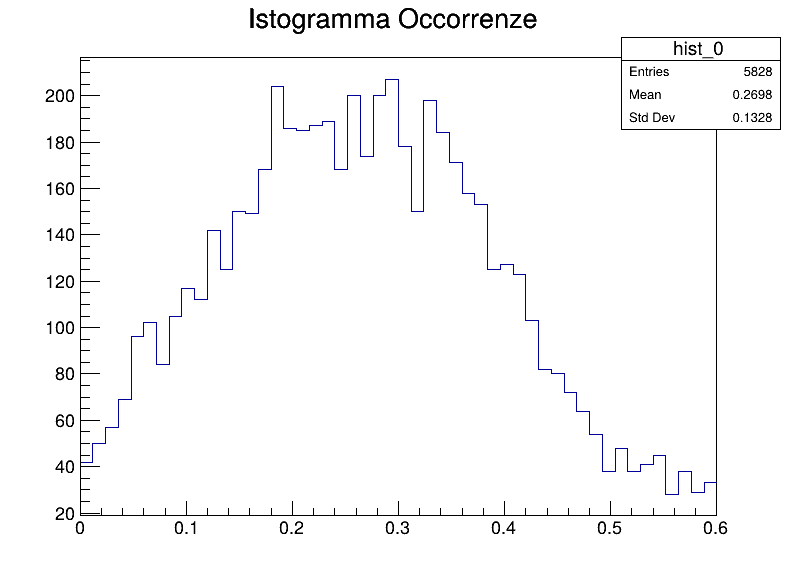
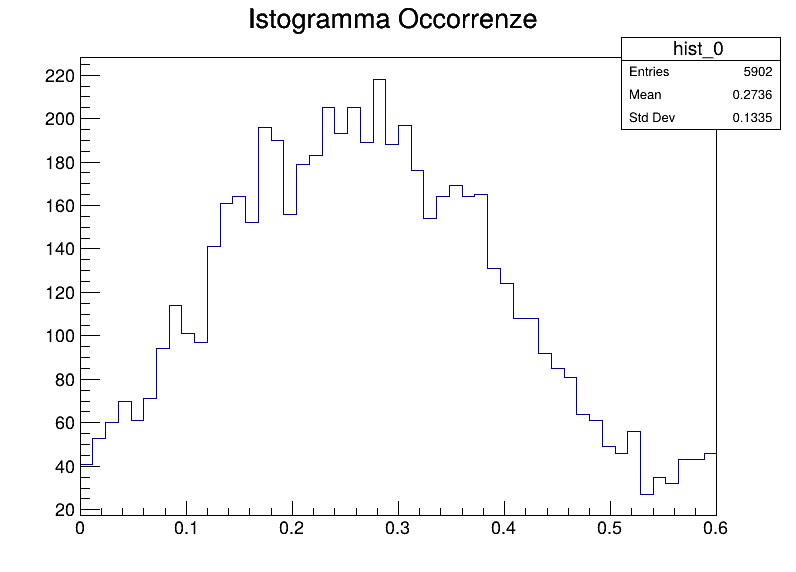
Modifiche

diff --git a/lab1/root_macro.C b/lab1/root_macro.C
@@ -28,15 +28,6 @@ class macro {
 
   TGraph* random_generation_graph(int n) {
     std::vector<double> vx, vy;
-    // for (float i{0.f}; i < 0.6f; i += 0.6 / n) {
-    //   double upper_bound = cos_function()->Eval(i);
-    //   double y           = gRandom->Uniform(0., 1.2);
-    //   if (y <= upper_bound) {
-    //     vx.push_back(i);
-    //     vy.push_back(y);
-    //   }
-    // }
-    // OPPURE
     for (int i{0}; i < n; ++i) {
       double x           = gRandom->Uniform(0., 0.6);
       double upper_bound = cos_function()->Eval(x);
@@ -49,22 +40,6 @@ class macro {
     TGraph* graph = new TGraph(vx.size(), &vx[0], &vy[0]);
     return graph;
   }
-
-  // TH1F* random_generation_hist(int n, int b) {
-  //   std::vector<double> vx, vy;
-  //   for (float i{0.f}; i < 0.6f; i += 0.6 / n) {
-  //     double upper_bound = cos_function()->Eval(i);
-  //     double y           = gRandom->Uniform(0., 1.2);
-  //     if (y <= upper_bound) {
-  //       vx.push_back(i);
-  //     }
-  //   }
-  //   TH1F* hist = new TH1F("hist", "Istogramma Occorrenze", b, 0, 0.6);
-  //   for (unsigned int i{0}; i < vx.size(); ++i) {
-  //     hist->Fill(vx[i], 1);
-  //   }
-  //   return hist;
-  // }
 
   TH1F* random_generation_hist(int n, int b) {
     std::vector<double> vx;
@@ -123,7 +98,12 @@ class macro {
     c5->SaveAs("cos_scalato.png");
   }
 
-  void rigenerazione_incertezze(int nGenerazioni = 100, int nEventi = 10000, int nBin = 50) {
+  struct bin_mean_sigma{
+    std::vector<double> media;
+    std::vector<double> sigma;
+  };
+
+  bin_mean_sigma rigenerazione_incertezze(int nGenerazioni = 100, int nEventi = 10000, int nBin = 50) {
     std::vector<TH1F*> histSet;
 
     for (int i = 0; i < nGenerazioni; ++i) {
@@ -156,11 +136,30 @@ class macro {
     gSigma->SetMarkerStyle(20);
     gSigma->Draw("AP");
     c->SaveAs("sigma.png");
+
+    return {media, sigma};
   }
 
-  void binSmearing(int n = 1000, int b = 50) {
-    TH1F* hist1 = (TH1F*)(random_generation_hist(n, b)->Clone("hist1"));
+  void binSmearing(int n = 1000, int b = 50, int gauss=30) {
+    bin_mean_sigma bin = rigenerazione_incertezze();
+    std::vector<double> g_media(b, 0.0);
+    std::vector<double> g_media_2(b, 0.0);
+    std::vector<double> g_sigma(b, 0.0);
+ 
+    for (int i{0}; i < b; ++i) {
+      for (int j{0}; j < gauss; ++j) {
+        double bincontent = gRandom->Gaus(bin.media[i], bin.sigma[i]);
+        g_media[i]+=bincontent;
+        g_media_2[i]+= bincontent * bincontent;
+      }
+      g_media[i] /= gauss;
+      g_media_2[i] /= gauss;
+      g_sigma[i] = std::sqrt(g_media_2[i] - std::pow(g_media[i], 2));
+      std::cout << "sigma_dist: " << std::abs(bin.sigma[i] - g_sigma[i]) << '\n';
+    }
   }
+
+  
 
   void draw() {
     TCanvas* c1 = new TCanvas("c1", "Funzione coseno", 800, 600);

diff --git a/lab1/root_main.cpp b/lab1/root_main.cpp
@@ -6,5 +6,6 @@ int main(int arcg, char** argv) {
     test.draw(); // ciao
     test.accordo(10000, 100);
     test.rigenerazione_incertezze();
+    test.binSmearing();
     return 0;
 }
